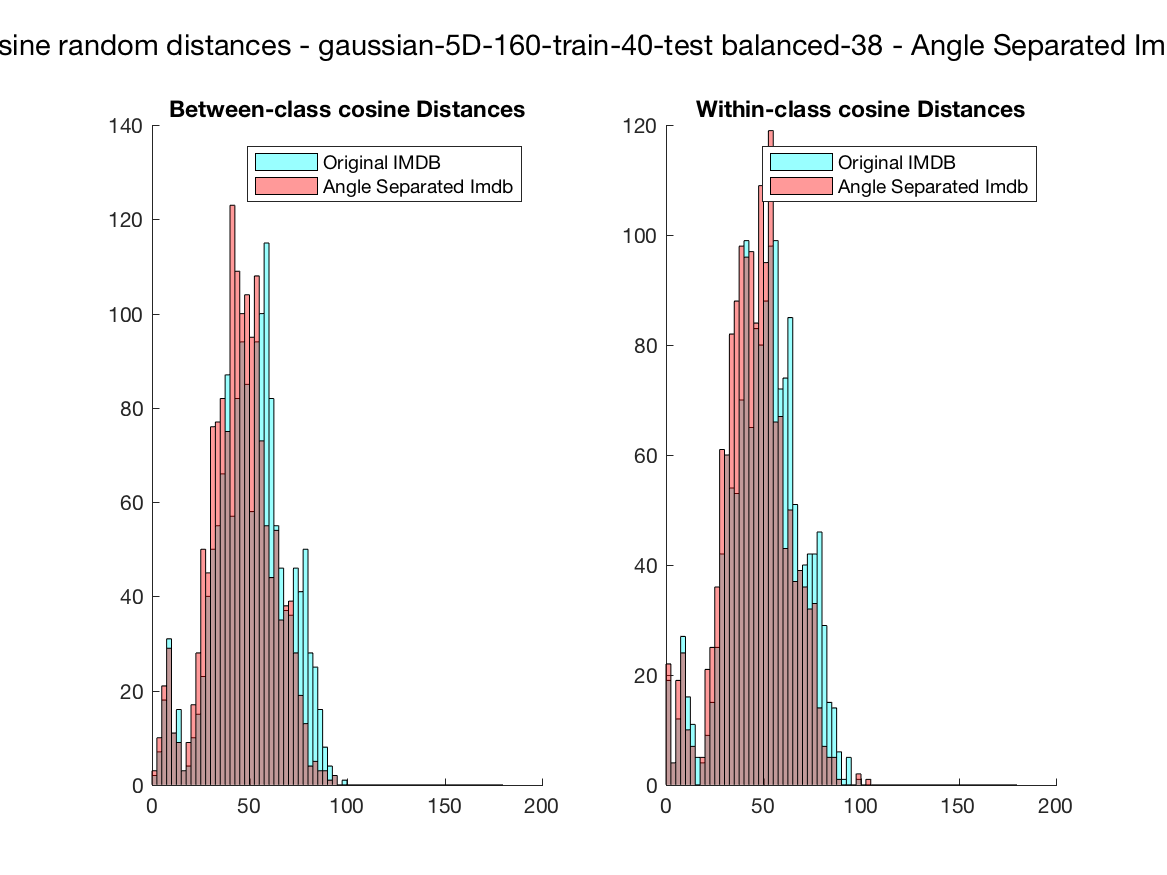
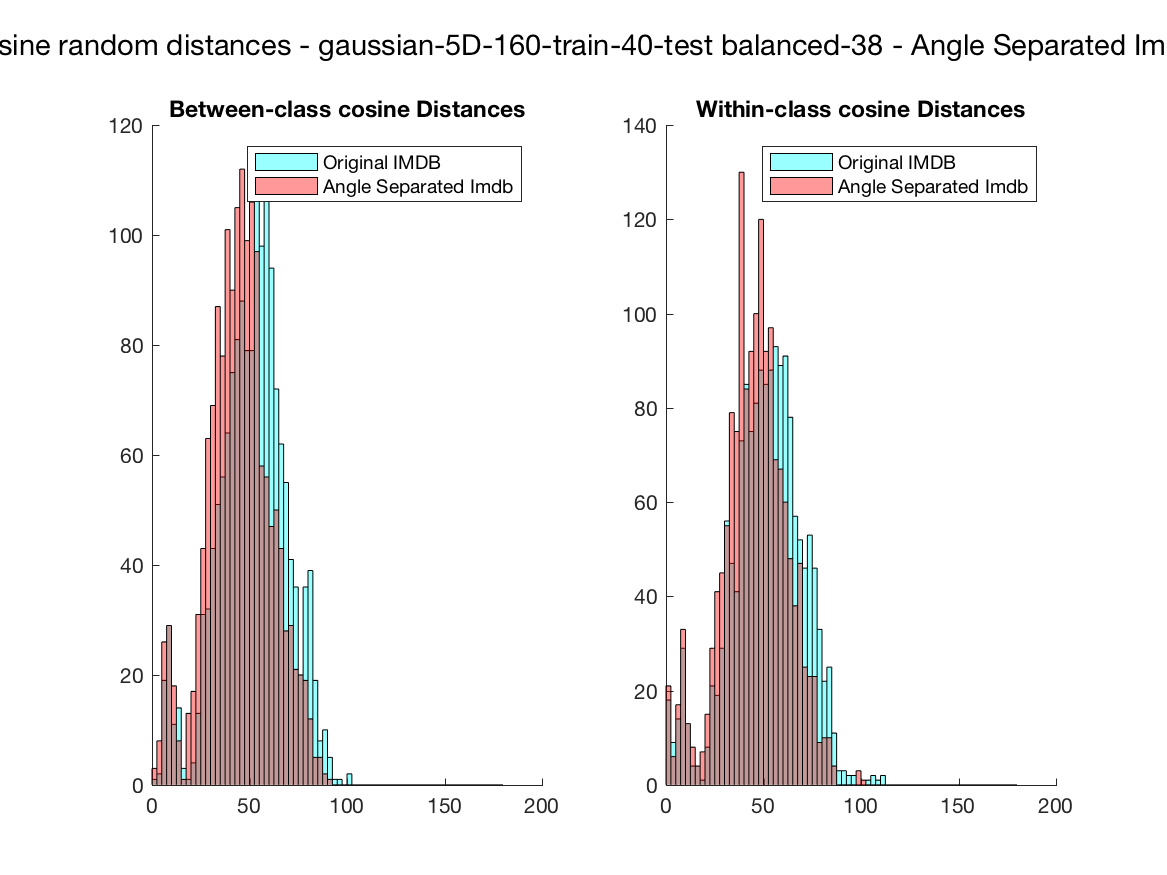
update

diff --git a/utils/amirs_utils/calculateDistances.m b/utils/amirs_utils/calculateDistances.m
@@ -25,7 +25,6 @@ function calculateDistances()
 % ARISING IN ANY WAY OUT OF THE USE OF THIS SOFTWARE, EVEN IF ADVISED OF THE
 % POSSIBILITY OF SUCH DAMAGE.
 
-
   % -------------------------------------------------------------------------
   %                                                                 Get IMDBs
   % -------------------------------------------------------------------------
@@ -34,11 +33,10 @@ function calculateDistances()
   % dataset = 'cifar-multi-class-subsampled';
   % posneg_balance = 'balanced-266';
   % dataset = 'cifar-two-class-deer-truck';
-  % dataset = 'mnist-two-class-9-4';
-  % dataset = 'gaussian-5D-160-train-40-test';
+  dataset = 'gaussian-5D-160-train-40-test';
   dataset = 'gaussian-10D-160-train-40-test';
-  % dataset = 'gaussian-25D-160-train-40-test';
-  % dataset = 'gaussian-100D-160-train-40-test';
+  dataset = 'gaussian-25D-160-train-40-test';
+  dataset = 'gaussian-50D-160-train-40-test';
   posneg_balance = 'balanced-38';
 
   [original_imdb, experiments] = setupExperimentsUsingProjectedImbds(dataset, posneg_balance, 1);
@@ -73,6 +71,7 @@ function calculateDistances()
       histogram( ...
         experiments{i}.between_class_distance_absolute_values, ...
         0:2.5:180, ...
+        ..., % 0:1:75, ...
         ..., % 0:2.5e-8:10e-7, ...
         'facecolor', ...
         color_palette{mod(i - 1,numel(color_palette)) + 1}, ...
@@ -92,6 +91,7 @@ function calculateDistances()
       histogram( ...
         experiments{i}.within_class_distance_absolute_values, ...
         0:2.5:180, ...
+        ..., % 0:1:75, ...
         ..., % 0:2.5e-8:10e-7, ...
         'facecolor', ...
         color_palette{mod(i - 1,numel(color_palette)) + 1}, ...

diff --git a/utils/amirs_utils/tempScriptRunTsne.m b/utils/amirs_utils/tempScriptRunTsne.m
@@ -34,9 +34,9 @@ function tempScriptRunTsne()
   % posneg_balance = 'balanced-266';
   % dataset = 'cifar-two-class-deer-truck';
   % dataset = 'gaussian-5D-160-train-40-test';
-  dataset = 'gaussian-10D-160-train-40-test';
-  % dataset = 'gaussian-25D-160-train-40-test';
-  % dataset = 'gaussian-100D-160-train-40-test';
+  % dataset = 'gaussian-10D-160-train-40-test';
+  dataset = 'gaussian-25D-160-train-40-test';
+  % dataset = 'gaussian-50D-160-train-40-test';
   posneg_balance = 'balanced-38';
 
   [~, experiments] = setupExperimentsUsingProjectedImbds(dataset, posneg_balance, 1);

diff --git a/utils/amirs_utils/tempScriptRunKnn.m b/utils/amirs_utils/tempScriptRunKnn.m
@@ -34,9 +34,9 @@ function tempScriptRunKNN()
   % posneg_balance = 'balanced-266';
   % dataset = 'cifar-two-class-deer-truck';
   % dataset = 'gaussian-5D-160-train-40-test';
-  dataset = 'gaussian-10D-160-train-40-test';
-  % dataset = 'gaussian-25D-160-train-40-test';
-  % dataset = 'gaussian-100D-160-train-40-test';
+  % dataset = 'gaussian-10D-160-train-40-test';
+  dataset = 'gaussian-25D-160-train-40-test';
+  % dataset = 'gaussian-50D-160-train-40-test';
   posneg_balance = 'balanced-38';
 
   [~, experiments] = setupExperimentsUsingProjectedImbds(dataset, posneg_balance, 0);

diff --git a/utils/amirs_utils/tempScriptRunMmd.m b/utils/amirs_utils/tempScriptRunMmd.m
@@ -34,9 +34,9 @@ function tempScriptRunMmd()
   % posneg_balance = 'balanced-266';
   % dataset = 'cifar-two-class-deer-truck';
   % dataset = 'gaussian-5D-160-train-40-test';
-  dataset = 'gaussian-10D-160-train-40-test';
-  % dataset = 'gaussian-25D-160-train-40-test';
-  % dataset = 'gaussian-100D-160-train-40-test';
+  % dataset = 'gaussian-10D-160-train-40-test';
+  dataset = 'gaussian-25D-160-train-40-test';
+  % dataset = 'gaussian-50D-160-train-40-test';
   posneg_balance = 'balanced-38';
 
   [~, experiments] = setupExperimentsUsingProjectedImbds(dataset, posneg_balance, 1);

diff --git a/utils/amirs_utils/imdb_utils/isSyntheticImdb.m b/utils/amirs_utils/imdb_utils/isSyntheticImdb.m
@@ -30,7 +30,7 @@ function output = isSyntheticImdb(dataset)
     strcmp(dataset, 'gaussian-5D-160-train-40-test') || ...
     strcmp(dataset, 'gaussian-10D-160-train-40-test') || ...
     strcmp(dataset, 'gaussian-25D-160-train-40-test') || ...
-    strcmp(dataset, 'gaussian-100D-160-train-40-test')
+    strcmp(dataset, 'gaussian-50D-160-train-40-test')
     output = true;
   end
 
